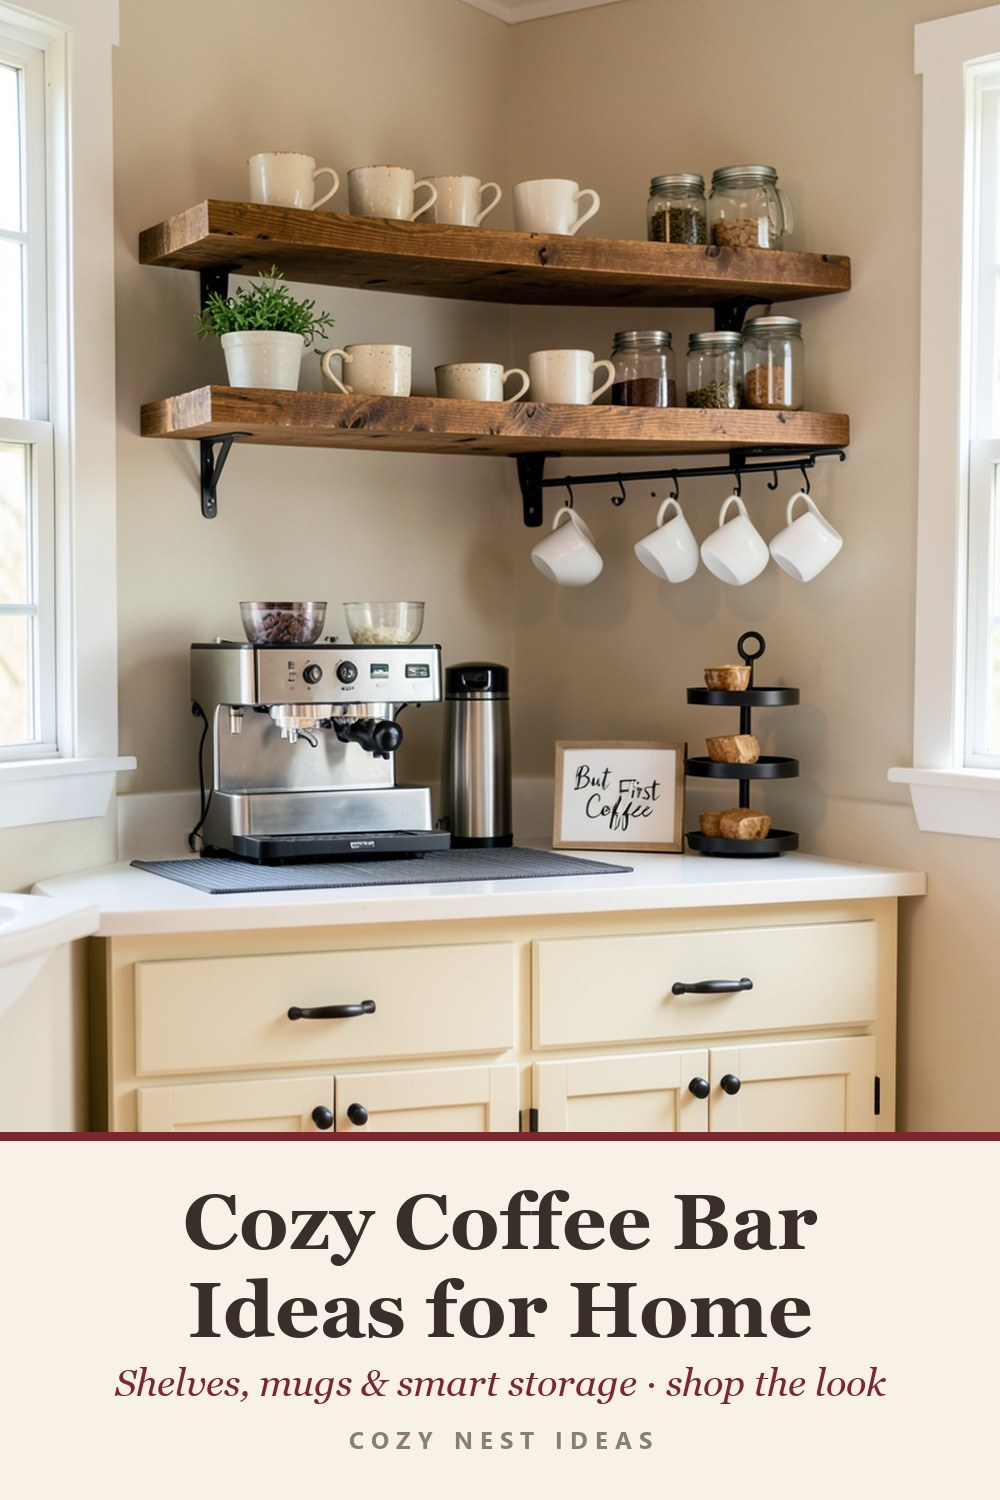
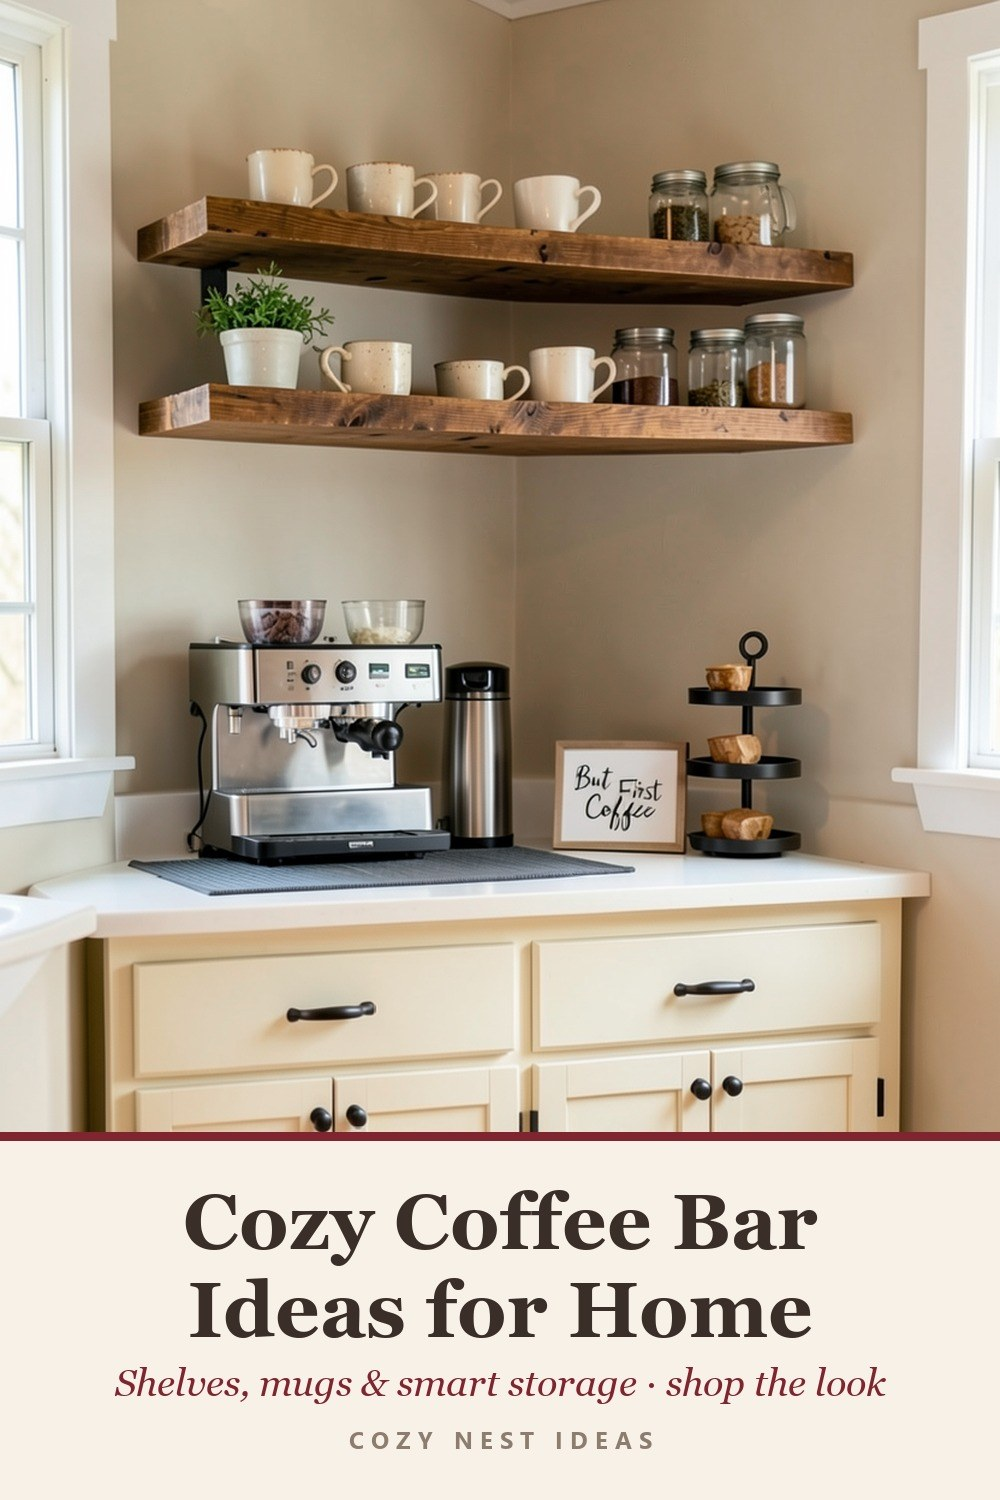
Fix floating bath tray and mug rack

diff --git a/coffee-bar-ideas/index.html b/coffee-bar-ideas/index.html
@@ -2,25 +2,23 @@
 <meta name="viewport" content="width=device-width,initial-scale=1">
 <meta name="p:domain_verify" content="4409502b235040ad3e69c63925a18982"/>
 <title>Cozy Coffee Bar Ideas for Home | Cozy Nest Ideas</title>
-<meta name="description" content="A small corner that makes every morning better: an ivory farmhouse cabinet, rustic floating shelves with mugs and jars, an under-shelf mug rack and a few smart organizers.">
-<link rel="stylesheet" href="../style.css?v=1793386475"></head><body><div class="wrap">
+<meta name="description" content="A small corner that makes every morning better: an ivory farmhouse cabinet, rustic floating shelves with mugs and jars, and a few smart organizers.">
+<link rel="stylesheet" href="../style.css?v=1793386864"></head><body><div class="wrap">
 <header><a href="../index.html">C O Z Y &nbsp; N E S T &nbsp; I D E A S</a></header>
 <div class="disc">As an Amazon Associate I earn from qualifying purchases. Links on this page are affiliate links.</div>
-<h1>Cozy Coffee Bar Ideas for Home</h1><p class="intro">A small corner that makes every morning better: an ivory farmhouse cabinet, rustic floating shelves with mugs and jars, an under-shelf mug rack and a few smart organizers.</p>
-<div class="hero"><img src="room.jpg" alt="Cozy Coffee Bar Ideas for Home" width="832" height="1248"><a class="dot" href="#p1" style="left:50%;top:75%">1</a><a class="dot" href="#p2" style="left:52%;top:16%">2</a><a class="dot" href="#p3" style="left:56%;top:35%">3</a><a class="dot" href="#p4" style="left:46%;top:51%">4</a><a class="dot" href="#p5" style="left:68%;top:50%">5</a><a class="dot" href="#p6" style="left:56%;top:53%">6</a><a class="dot" href="#p7" style="left:42%;top:58%">7</a></div>
+<h1>Cozy Coffee Bar Ideas for Home</h1><p class="intro">A small corner that makes every morning better: an ivory farmhouse cabinet, rustic floating shelves with mugs and jars, and a few smart organizers.</p>
+<div class="hero"><img src="room.jpg" alt="Cozy Coffee Bar Ideas for Home" width="832" height="1248"><a class="dot" href="#p1" style="left:52%;top:81%">1</a><a class="dot" href="#p2" style="left:50%;top:17%">2</a><a class="dot" href="#p3" style="left:47%;top:50%">3</a><a class="dot" href="#p4" style="left:74%;top:49%">4</a><a class="dot" href="#p5" style="left:61%;top:53%">5</a><a class="dot" href="#p6" style="left:37%;top:58%">6</a></div>
 <h2>Shop the look</h2><div class="item" id="p1"><div class="num">1</div><div class="txt">
 <small></small><b>Farmhouse Coffee Bar Cabinet, Ivory</b><p>Four doors and adjustable shelves for beans, pods and cups.</p></div>
 <a class="btn" href="https://www.amazon.com/dp/B0DHZN4YNF?tag=cozynestid0c1-20" target="_blank" rel="nofollow sponsored noopener">View on Amazon</a></div><div class="item" id="p2"><div class="num">2</div><div class="txt">
 <small>BAYKA</small><b>Rustic Brown Floating Shelves (Set of 2)</b><p>Show off mugs and glass jars.</p></div>
 <a class="btn" href="https://www.amazon.com/dp/B0DZWXJ9VZ?tag=cozynestid0c1-20" target="_blank" rel="nofollow sponsored noopener">View on Amazon</a></div><div class="item" id="p3"><div class="num">3</div><div class="txt">
-<small>MOCOUM</small><b>Under-Shelf Mug Rack, 12 Hooks</b><p>Hang your favorite mugs and free up shelf space.</p></div>
-<a class="btn" href="https://www.amazon.com/dp/B07ZM9DQQK?tag=cozynestid0c1-20" target="_blank" rel="nofollow sponsored noopener">View on Amazon</a></div><div class="item" id="p4"><div class="num">4</div><div class="txt">
 <small>Oggi</small><b>Airtight Glass &amp; Steel Coffee Canister</b><p>Keeps beans fresh and looks great on the counter.</p></div>
-<a class="btn" href="https://www.amazon.com/dp/B00VSCDX8U?tag=cozynestid0c1-20" target="_blank" rel="nofollow sponsored noopener">View on Amazon</a></div><div class="item" id="p5"><div class="num">5</div><div class="txt">
+<a class="btn" href="https://www.amazon.com/dp/B00VSCDX8U?tag=cozynestid0c1-20" target="_blank" rel="nofollow sponsored noopener">View on Amazon</a></div><div class="item" id="p4"><div class="num">4</div><div class="txt">
 <small>Mind Reader</small><b>Rotating Cup &amp; Condiment Tower</b><p>Pods, sugar and stirrers in one spinning stand.</p></div>
-<a class="btn" href="https://www.amazon.com/dp/B0BZT6HMNX?tag=cozynestid0c1-20" target="_blank" rel="nofollow sponsored noopener">View on Amazon</a></div><div class="item" id="p6"><div class="num">6</div><div class="txt">
+<a class="btn" href="https://www.amazon.com/dp/B0BZT6HMNX?tag=cozynestid0c1-20" target="_blank" rel="nofollow sponsored noopener">View on Amazon</a></div><div class="item" id="p5"><div class="num">5</div><div class="txt">
 <small>Primitives by Kathy</small><b>&#x27;But First Coffee&#x27; Sign</b><p>A little word art for the station.</p></div>
-<a class="btn" href="https://www.amazon.com/dp/B08TKDTNPL?tag=cozynestid0c1-20" target="_blank" rel="nofollow sponsored noopener">View on Amazon</a></div><div class="item" id="p7"><div class="num">7</div><div class="txt">
+<a class="btn" href="https://www.amazon.com/dp/B08TKDTNPL?tag=cozynestid0c1-20" target="_blank" rel="nofollow sponsored noopener">View on Amazon</a></div><div class="item" id="p6"><div class="num">6</div><div class="txt">
 <small></small><b>Coffee Mat for the Counter</b><p>Catches drips and grounds under the machine.</p></div>
 <a class="btn" href="https://www.amazon.com/dp/B0BW7L7DSX?tag=cozynestid0c1-20" target="_blank" rel="nofollow sponsored noopener">View on Amazon</a></div><h2>Save this idea</h2><div class="hero" style="margin-bottom:16px"><img src="pin.jpg" width="1000" height="1500" alt="Cozy Coffee Bar Ideas for Home - shop the look"></div>
 <footer>As an Amazon Associate I earn from qualifying purchases. Links on this page are affiliate links.<br>&copy; Cozy Nest Ideas. Room images are AI-generated inspiration; products are similar picks, not exact matches.</footer>

diff --git a/index.html b/index.html
@@ -3,7 +3,7 @@
 <meta name="p:domain_verify" content="4409502b235040ad3e69c63925a18982"/>
 <title>Cozy Nest Ideas | Cozy Nest Ideas</title>
 <meta name="description" content="Cozy home and seasonal decor ideas with shop-the-look lists.">
-<link rel="stylesheet" href="style.css?v=1793386475"></head><body><div class="wrap">
+<link rel="stylesheet" href="style.css?v=1793386864"></head><body><div class="wrap">
 <header><a href="index.html">C O Z Y &nbsp; N E S T &nbsp; I D E A S</a></header>
 <h1>Cozy home ideas</h1><p class="intro">Cozy, seasonal room ideas, each with the pieces to shop the look.</p><div class="grid"><a class="card" href="cozy-winter-bedroom/index.html"><img src="cozy-winter-bedroom/room.jpg" alt="Cozy Winter Bedroom Ideas" loading="lazy"><span>Cozy Winter Bedroom Ideas</span></a><a class="card" href="christmas-living-room/index.html"><img src="christmas-living-room/room.jpg" alt="Cozy Christmas Living Room Ideas" loading="lazy"><span>Cozy Christmas Living Room Ideas</span></a><a class="card" href="safari-nursery/index.html"><img src="safari-nursery/room.jpg" alt="Neutral Safari Nursery Ideas" loading="lazy"><span>Neutral Safari Nursery Ideas</span></a><a class="card" href="christmas-mantel/index.html"><img src="christmas-mantel/room.jpg" alt="Cozy Christmas Mantel Ideas" loading="lazy"><span>Cozy Christmas Mantel Ideas</span></a><a class="card" href="thanksgiving-table/index.html"><img src="thanksgiving-table/room.jpg" alt="Cozy Thanksgiving Table Ideas" loading="lazy"><span>Cozy Thanksgiving Table Ideas</span></a><a class="card" href="boho-nursery/index.html"><img src="boho-nursery/room.jpg" alt="Boho Baby Girl Nursery Ideas" loading="lazy"><span>Boho Baby Girl Nursery Ideas</span></a><a class="card" href="fall-reading-nook/index.html"><img src="fall-reading-nook/room.jpg" alt="Cozy Fall Reading Nook Ideas" loading="lazy"><span>Cozy Fall Reading Nook Ideas</span></a><a class="card" href="christmas-entryway/index.html"><img src="christmas-entryway/room.jpg" alt="Scandinavian Christmas Entryway Ideas" loading="lazy"><span>Scandinavian Christmas Entryway Ideas</span></a><a class="card" href="coffee-bar-ideas/index.html"><img src="coffee-bar-ideas/room.jpg" alt="Cozy Coffee Bar Ideas for Home" loading="lazy"><span>Cozy Coffee Bar Ideas for Home</span></a><a class="card" href="spa-bathroom-ideas/index.html"><img src="spa-bathroom-ideas/room.jpg" alt="Spa Bathroom Ideas on a Budget" loading="lazy"><span>Spa Bathroom Ideas on a Budget</span></a><a class="card" href="home-office-nook/index.html"><img src="home-office-nook/room.jpg" alt="Cozy Home Office Nook Ideas" loading="lazy"><span>Cozy Home Office Nook Ideas</span></a></div>
 <footer>As an Amazon Associate I earn from qualifying purchases. Links on this page are affiliate links.<br>&copy; Cozy Nest Ideas. Room images are AI-generated inspiration; products are similar picks, not exact matches.</footer>

diff --git a/spa-bathroom-ideas/index.html b/spa-bathroom-ideas/index.html
@@ -3,11 +3,11 @@
 <meta name="p:domain_verify" content="4409502b235040ad3e69c63925a18982"/>
 <title>Spa Bathroom Ideas on a Budget | Cozy Nest Ideas</title>
 <meta name="description" content="Turn a small bathroom into a calm little spa: a bamboo bath tray, soft waffle towels, woven baskets, a reed diffuser and simple white accessories.">
-<link rel="stylesheet" href="../style.css?v=1793386475"></head><body><div class="wrap">
+<link rel="stylesheet" href="../style.css?v=1793386864"></head><body><div class="wrap">
 <header><a href="../index.html">C O Z Y &nbsp; N E S T &nbsp; I D E A S</a></header>
 <div class="disc">As an Amazon Associate I earn from qualifying purchases. Links on this page are affiliate links.</div>
 <h1>Spa Bathroom Ideas on a Budget</h1><p class="intro">Turn a small bathroom into a calm little spa: a bamboo bath tray, soft waffle towels, woven baskets, a reed diffuser and simple white accessories.</p>
-<div class="hero"><img src="room.jpg" alt="Spa Bathroom Ideas on a Budget" width="832" height="1248"><a class="dot" href="#p1" style="left:17%;top:53%">1</a><a class="dot" href="#p2" style="left:22%;top:68%">2</a><a class="dot" href="#p3" style="left:66%;top:63%">3</a><a class="dot" href="#p4" style="left:66%;top:40%">4</a><a class="dot" href="#p5" style="left:70%;top:32%">5</a><a class="dot" href="#p6" style="left:72%;top:35%">6</a><a class="dot" href="#p7" style="left:64%;top:88%">7</a></div>
+<div class="hero"><img src="room.jpg" alt="Spa Bathroom Ideas on a Budget" width="832" height="1248"><a class="dot" href="#p1" style="left:27%;top:58%">1</a><a class="dot" href="#p2" style="left:21%;top:73%">2</a><a class="dot" href="#p3" style="left:67%;top:61%">3</a><a class="dot" href="#p4" style="left:72%;top:24%">4</a><a class="dot" href="#p5" style="left:94%;top:46%">5</a><a class="dot" href="#p6" style="left:86%;top:47%">6</a><a class="dot" href="#p7" style="left:60%;top:92%">7</a></div>
 <h2>Shop the look</h2><div class="item" id="p1"><div class="num">1</div><div class="txt">
 <small>Umbra</small><b>Bamboo Bath Caddy Tray</b><p>Room for a candle, a book and a cup of tea.</p></div>
 <a class="btn" href="https://www.amazon.com/dp/B00176AOKM?tag=cozynestid0c1-20" target="_blank" rel="nofollow sponsored noopener">View on Amazon</a></div><div class="item" id="p2"><div class="num">2</div><div class="txt">

diff --git a/christmas-mantel/index.html b/christmas-mantel/index.html
@@ -3,7 +3,7 @@
 <meta name="p:domain_verify" content="4409502b235040ad3e69c63925a18982"/>
 <title>Cozy Christmas Mantel Ideas | Cozy Nest Ideas</title>
 <meta name="description" content="A classic, glowing Christmas mantel: a lush pine garland with pine cones, a lit berry wreath, brass candlesticks with fluted taper candles, sage pillar candles, a tiny lit wooden village and chunky knit stockings. Here are the pieces to recreate it.">
-<link rel="stylesheet" href="../style.css?v=1793386475"></head><body><div class="wrap">
+<link rel="stylesheet" href="../style.css?v=1793386864"></head><body><div class="wrap">
 <header><a href="../index.html">C O Z Y &nbsp; N E S T &nbsp; I D E A S</a></header>
 <div class="disc">As an Amazon Associate I earn from qualifying purchases. Links on this page are affiliate links.</div>
 <h1>Cozy Christmas Mantel Ideas</h1><p class="intro">A classic, glowing Christmas mantel: a lush pine garland with pine cones, a lit berry wreath, brass candlesticks with fluted taper candles, sage pillar candles, a tiny lit wooden village and chunky knit stockings. Here are the pieces to recreate it.</p>

diff --git a/thanksgiving-table/index.html b/thanksgiving-table/index.html
@@ -3,7 +3,7 @@
 <meta name="p:domain_verify" content="4409502b235040ad3e69c63925a18982"/>
 <title>Cozy Thanksgiving Table Ideas | Cozy Nest Ideas</title>
 <meta name="description" content="A warm, candlelit Thanksgiving table: a soft taupe linen tablecloth, a pine and eucalyptus runner dotted with cream and orange pumpkins, tall brown taper candles in brass and glowing amber votives. Here are the pieces to set it.">
-<link rel="stylesheet" href="../style.css?v=1793386475"></head><body><div class="wrap">
+<link rel="stylesheet" href="../style.css?v=1793386864"></head><body><div class="wrap">
 <header><a href="../index.html">C O Z Y &nbsp; N E S T &nbsp; I D E A S</a></header>
 <div class="disc">As an Amazon Associate I earn from qualifying purchases. Links on this page are affiliate links.</div>
 <h1>Cozy Thanksgiving Table Ideas</h1><p class="intro">A warm, candlelit Thanksgiving table: a soft taupe linen tablecloth, a pine and eucalyptus runner dotted with cream and orange pumpkins, tall brown taper candles in brass and glowing amber votives. Here are the pieces to set it.</p>

diff --git a/boho-nursery/index.html b/boho-nursery/index.html
@@ -3,7 +3,7 @@
 <meta name="p:domain_verify" content="4409502b235040ad3e69c63925a18982"/>
 <title>Boho Baby Girl Nursery Ideas | Cozy Nest Ideas</title>
 <meta name="description" content="A calm, airy boho nursery: a natural oak crib, soft floral sheets in pink and beige, a dusty rose macrame hanging, a wood bead garland, a faux olive tree and a fluffy tassel rug. Here are the pieces to recreate it.">
-<link rel="stylesheet" href="../style.css?v=1793386475"></head><body><div class="wrap">
+<link rel="stylesheet" href="../style.css?v=1793386864"></head><body><div class="wrap">
 <header><a href="../index.html">C O Z Y &nbsp; N E S T &nbsp; I D E A S</a></header>
 <div class="disc">As an Amazon Associate I earn from qualifying purchases. Links on this page are affiliate links.</div>
 <h1>Boho Baby Girl Nursery Ideas</h1><p class="intro">A calm, airy boho nursery: a natural oak crib, soft floral sheets in pink and beige, a dusty rose macrame hanging, a wood bead garland, a faux olive tree and a fluffy tassel rug. Here are the pieces to recreate it.</p>

diff --git a/cozy-winter-bedroom/index.html b/cozy-winter-bedroom/index.html
@@ -3,7 +3,7 @@
 <meta name="p:domain_verify" content="4409502b235040ad3e69c63925a18982"/>
 <title>Cozy Winter Bedroom Ideas | Cozy Nest Ideas</title>
 <meta name="description" content="A soft, warm bedroom for long winter nights: a cloud-like white comforter, deep burgundy velvet, a plush grey sherpa throw and the glow of fairy lights and flickering candles. Here are the pieces to recreate the look.">
-<link rel="stylesheet" href="../style.css?v=1793386475"></head><body><div class="wrap">
+<link rel="stylesheet" href="../style.css?v=1793386864"></head><body><div class="wrap">
 <header><a href="../index.html">C O Z Y &nbsp; N E S T &nbsp; I D E A S</a></header>
 <div class="disc">As an Amazon Associate I earn from qualifying purchases. Links on this page are affiliate links.</div>
 <h1>Cozy Winter Bedroom Ideas</h1><p class="intro">A soft, warm bedroom for long winter nights: a cloud-like white comforter, deep burgundy velvet, a plush grey sherpa throw and the glow of fairy lights and flickering candles. Here are the pieces to recreate the look.</p>

diff --git a/fall-reading-nook/index.html b/fall-reading-nook/index.html
@@ -3,7 +3,7 @@
 <meta name="p:domain_verify" content="4409502b235040ad3e69c63925a18982"/>
 <title>Cozy Fall Reading Nook Ideas | Cozy Nest Ideas</title>
 <meta name="description" content="A snug reading corner for autumn: a cloud-like sherpa barrel chair, a chunky knit throw, a chocolate corduroy pillow, a warm arc lamp, rustic floating shelves and a pumpkin candle burning on the side table.">
-<link rel="stylesheet" href="../style.css?v=1793386475"></head><body><div class="wrap">
+<link rel="stylesheet" href="../style.css?v=1793386864"></head><body><div class="wrap">
 <header><a href="../index.html">C O Z Y &nbsp; N E S T &nbsp; I D E A S</a></header>
 <div class="disc">As an Amazon Associate I earn from qualifying purchases. Links on this page are affiliate links.</div>
 <h1>Cozy Fall Reading Nook Ideas</h1><p class="intro">A snug reading corner for autumn: a cloud-like sherpa barrel chair, a chunky knit throw, a chocolate corduroy pillow, a warm arc lamp, rustic floating shelves and a pumpkin candle burning on the side table.</p>

diff --git a/christmas-living-room/index.html b/christmas-living-room/index.html
@@ -3,7 +3,7 @@
 <meta name="p:domain_verify" content="4409502b235040ad3e69c63925a18982"/>
 <title>Cozy Christmas Living Room Ideas | Cozy Nest Ideas</title>
 <meta name="description" content="A warm, classic Christmas corner: a glowing pre-lit tree in champagne ornaments, cable-knit stockings on a garland-draped mantel, flickering candles and soft velvet and sherpa layers on the sofa.">
-<link rel="stylesheet" href="../style.css?v=1793386475"></head><body><div class="wrap">
+<link rel="stylesheet" href="../style.css?v=1793386864"></head><body><div class="wrap">
 <header><a href="../index.html">C O Z Y &nbsp; N E S T &nbsp; I D E A S</a></header>
 <div class="disc">As an Amazon Associate I earn from qualifying purchases. Links on this page are affiliate links.</div>
 <h1>Cozy Christmas Living Room Ideas</h1><p class="intro">A warm, classic Christmas corner: a glowing pre-lit tree in champagne ornaments, cable-knit stockings on a garland-draped mantel, flickering candles and soft velvet and sherpa layers on the sofa.</p>

diff --git a/christmas-entryway/index.html b/christmas-entryway/index.html
@@ -3,7 +3,7 @@
 <meta name="p:domain_verify" content="4409502b235040ad3e69c63925a18982"/>
 <title>Scandinavian Christmas Entryway Ideas | Cozy Nest Ideas</title>
 <meta name="description" content="A bright, simple Christmas welcome: a slim snow-flocked tree, a eucalyptus wreath on a round mirror, a bamboo bench with a tartan pillow, glowing lanterns and a cozy woven blanket basket.">
-<link rel="stylesheet" href="../style.css?v=1793386475"></head><body><div class="wrap">
+<link rel="stylesheet" href="../style.css?v=1793386864"></head><body><div class="wrap">
 <header><a href="../index.html">C O Z Y &nbsp; N E S T &nbsp; I D E A S</a></header>
 <div class="disc">As an Amazon Associate I earn from qualifying purchases. Links on this page are affiliate links.</div>
 <h1>Scandinavian Christmas Entryway Ideas</h1><p class="intro">A bright, simple Christmas welcome: a slim snow-flocked tree, a eucalyptus wreath on a round mirror, a bamboo bench with a tartan pillow, glowing lanterns and a cozy woven blanket basket.</p>

diff --git a/safari-nursery/index.html b/safari-nursery/index.html
@@ -3,7 +3,7 @@
 <meta name="p:domain_verify" content="4409502b235040ad3e69c63925a18982"/>
 <title>Neutral Safari Nursery Ideas | Cozy Nest Ideas</title>
 <meta name="description" content="A calm, gender-neutral safari nursery: a crisp white crib under a playful jungle mobile, a cozy grey glider for night feeds, book ledges at the ready and woven baskets that keep everything tidy.">
-<link rel="stylesheet" href="../style.css?v=1793386475"></head><body><div class="wrap">
+<link rel="stylesheet" href="../style.css?v=1793386864"></head><body><div class="wrap">
 <header><a href="../index.html">C O Z Y &nbsp; N E S T &nbsp; I D E A S</a></header>
 <div class="disc">As an Amazon Associate I earn from qualifying purchases. Links on this page are affiliate links.</div>
 <h1>Neutral Safari Nursery Ideas</h1><p class="intro">A calm, gender-neutral safari nursery: a crisp white crib under a playful jungle mobile, a cozy grey glider for night feeds, book ledges at the ready and woven baskets that keep everything tidy.</p>

diff --git a/home-office-nook/index.html b/home-office-nook/index.html
@@ -3,7 +3,7 @@
 <meta name="p:domain_verify" content="4409502b235040ad3e69c63925a18982"/>
 <title>Cozy Home Office Nook Ideas | Cozy Nest Ideas</title>
 <meta name="description" content="A calm little workspace for a bedroom or living room corner: a warm oak desk, a fluffy teddy chair, a swing-arm lamp, a linen pinboard and a few tidy organizers.">
-<link rel="stylesheet" href="../style.css?v=1793386475"></head><body><div class="wrap">
+<link rel="stylesheet" href="../style.css?v=1793386864"></head><body><div class="wrap">
 <header><a href="../index.html">C O Z Y &nbsp; N E S T &nbsp; I D E A S</a></header>
 <div class="disc">As an Amazon Associate I earn from qualifying purchases. Links on this page are affiliate links.</div>
 <h1>Cozy Home Office Nook Ideas</h1><p class="intro">A calm little workspace for a bedroom or living room corner: a warm oak desk, a fluffy teddy chair, a swing-arm lamp, a linen pinboard and a few tidy organizers.</p>
